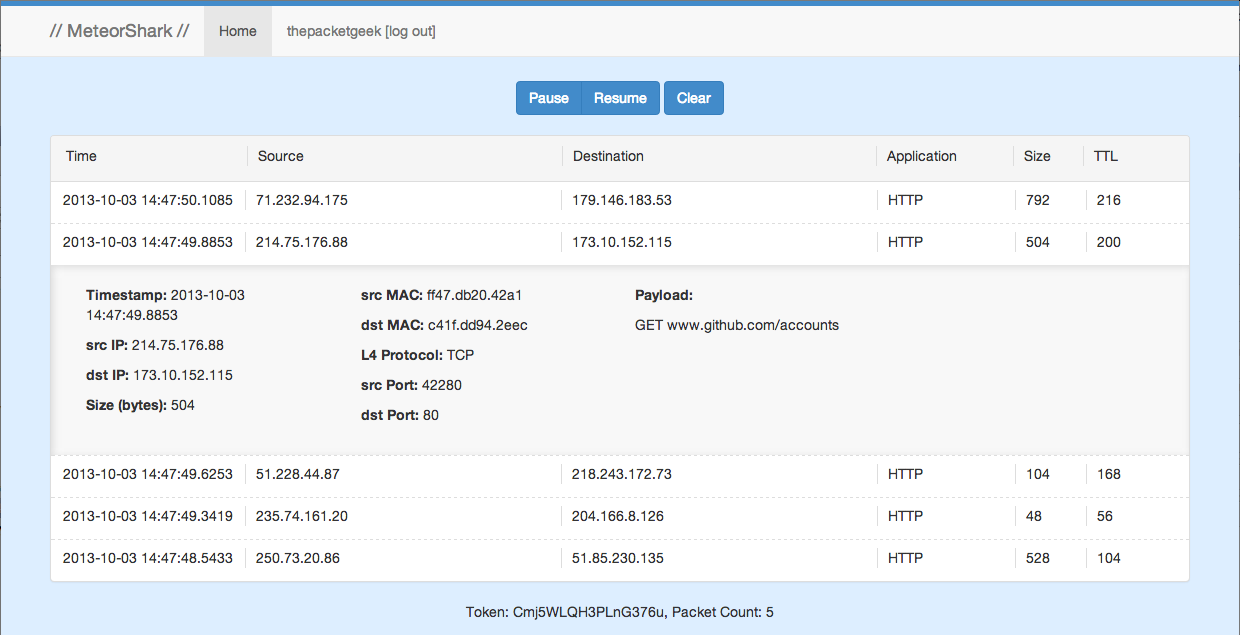
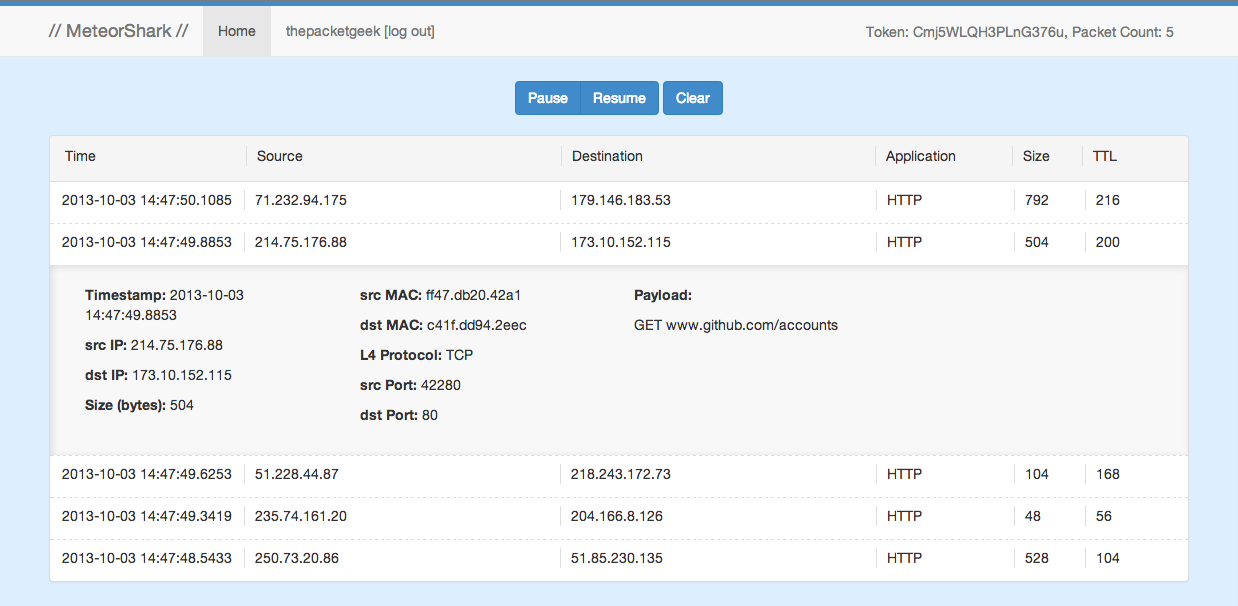
Updating Readme and screenshot after moving token and packet count to header

diff --git a/readme.md b/readme.md
@@ -12,11 +12,11 @@ This project came-to-be while I was preparing for a presentation on scapy for pe
 
 Due to the way packets are stored in the MongoDB for account separation, users must have an account so they can insert packets with their own token.  Once installed, go to <http://localhost:3000/> and create an account, or check out a [public instance, hosted by Meteor](http://meteorshark.meteor.com)!
 
-Once logged in, you can see your account Token at the bottom of the main screen.  Use this for the `owner` property in the packet.json explained below.
+Once logged in, you can see your account Token in the top right corner.  Use this for the `owner` property in the packet.json explained below.
 
 ### Viewing Packets
 
-As the API/DB is populated with packets you will see them appear on the screen. Each packet is expandable for more information (info provided depends on the packet type and protocol support in the client side script). You can pause and resume the packet loading with the buttons on top.  While paused, you can see if you have received more packets by looking at the Packet Count on the bottom of the main screen, next to the token.
+As the API/DB is populated with packets you will see them appear on the screen. Each packet is expandable for more information (info provided depends on the packet type and protocol support in the client side script). You can pause and resume the packet loading with the buttons on top.  While paused, you can see if you have received more packets by looking at the Packet Count in the top right corner, next to the token.
 
 ### Packet Structure
 
